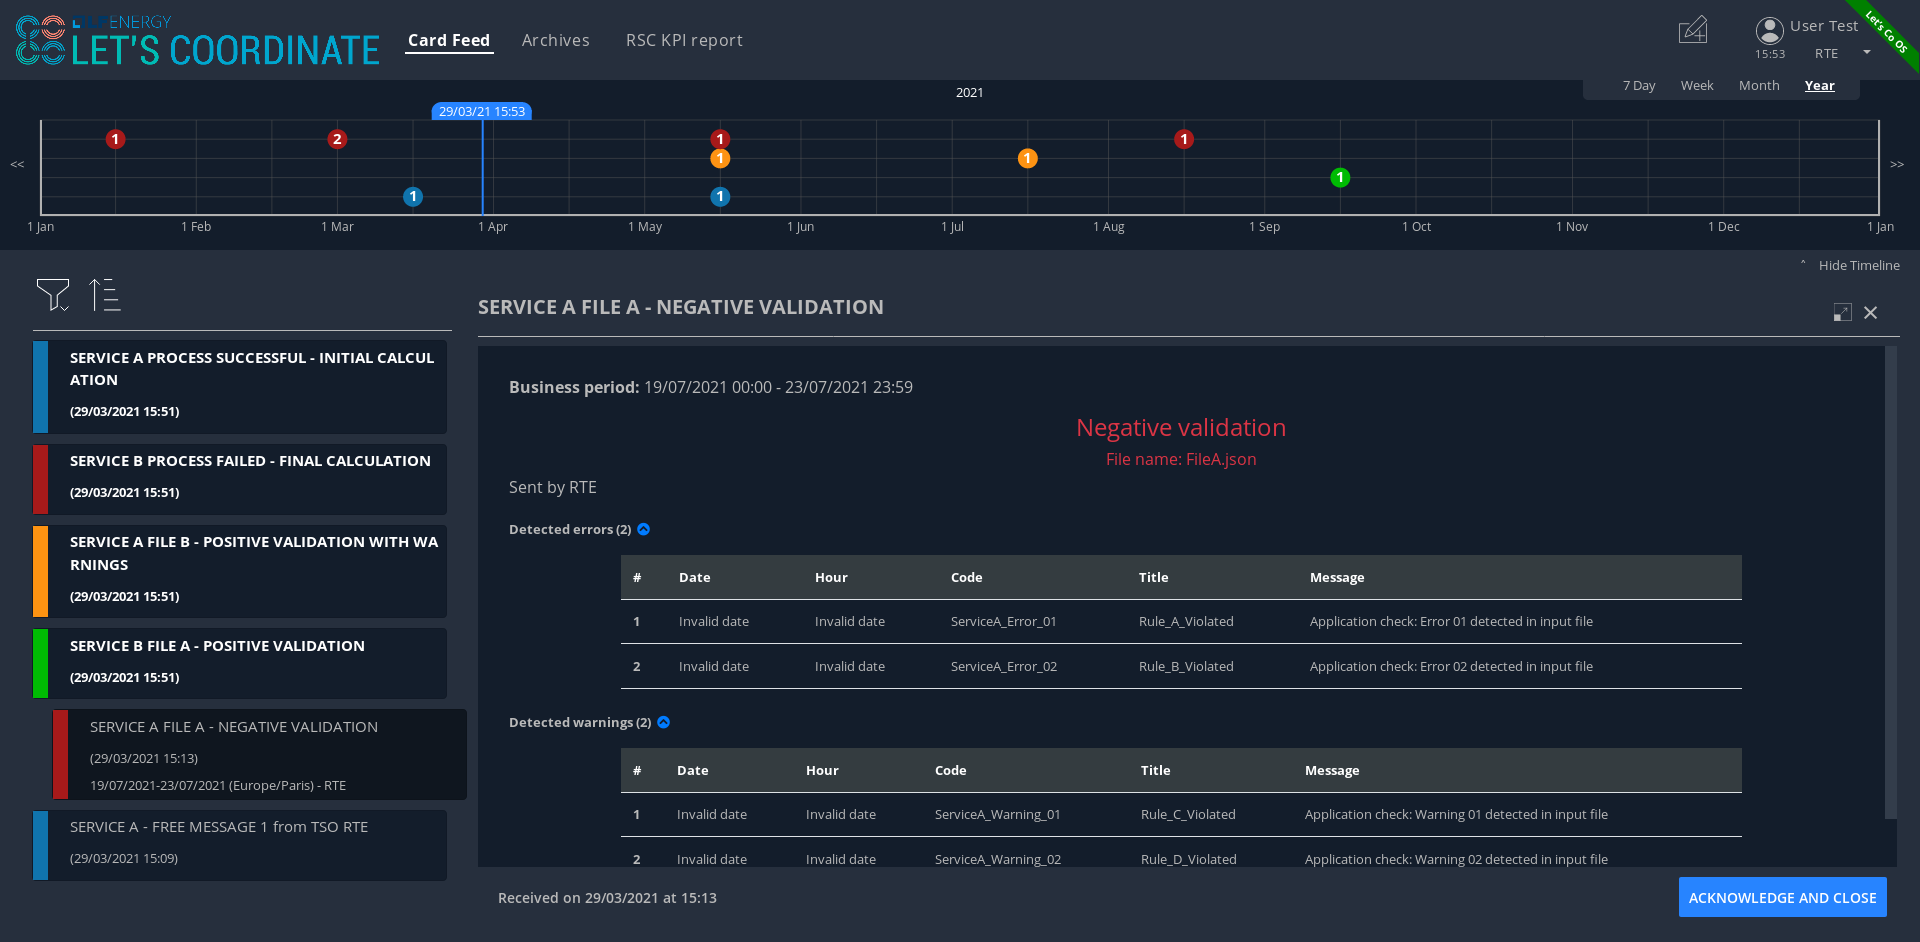
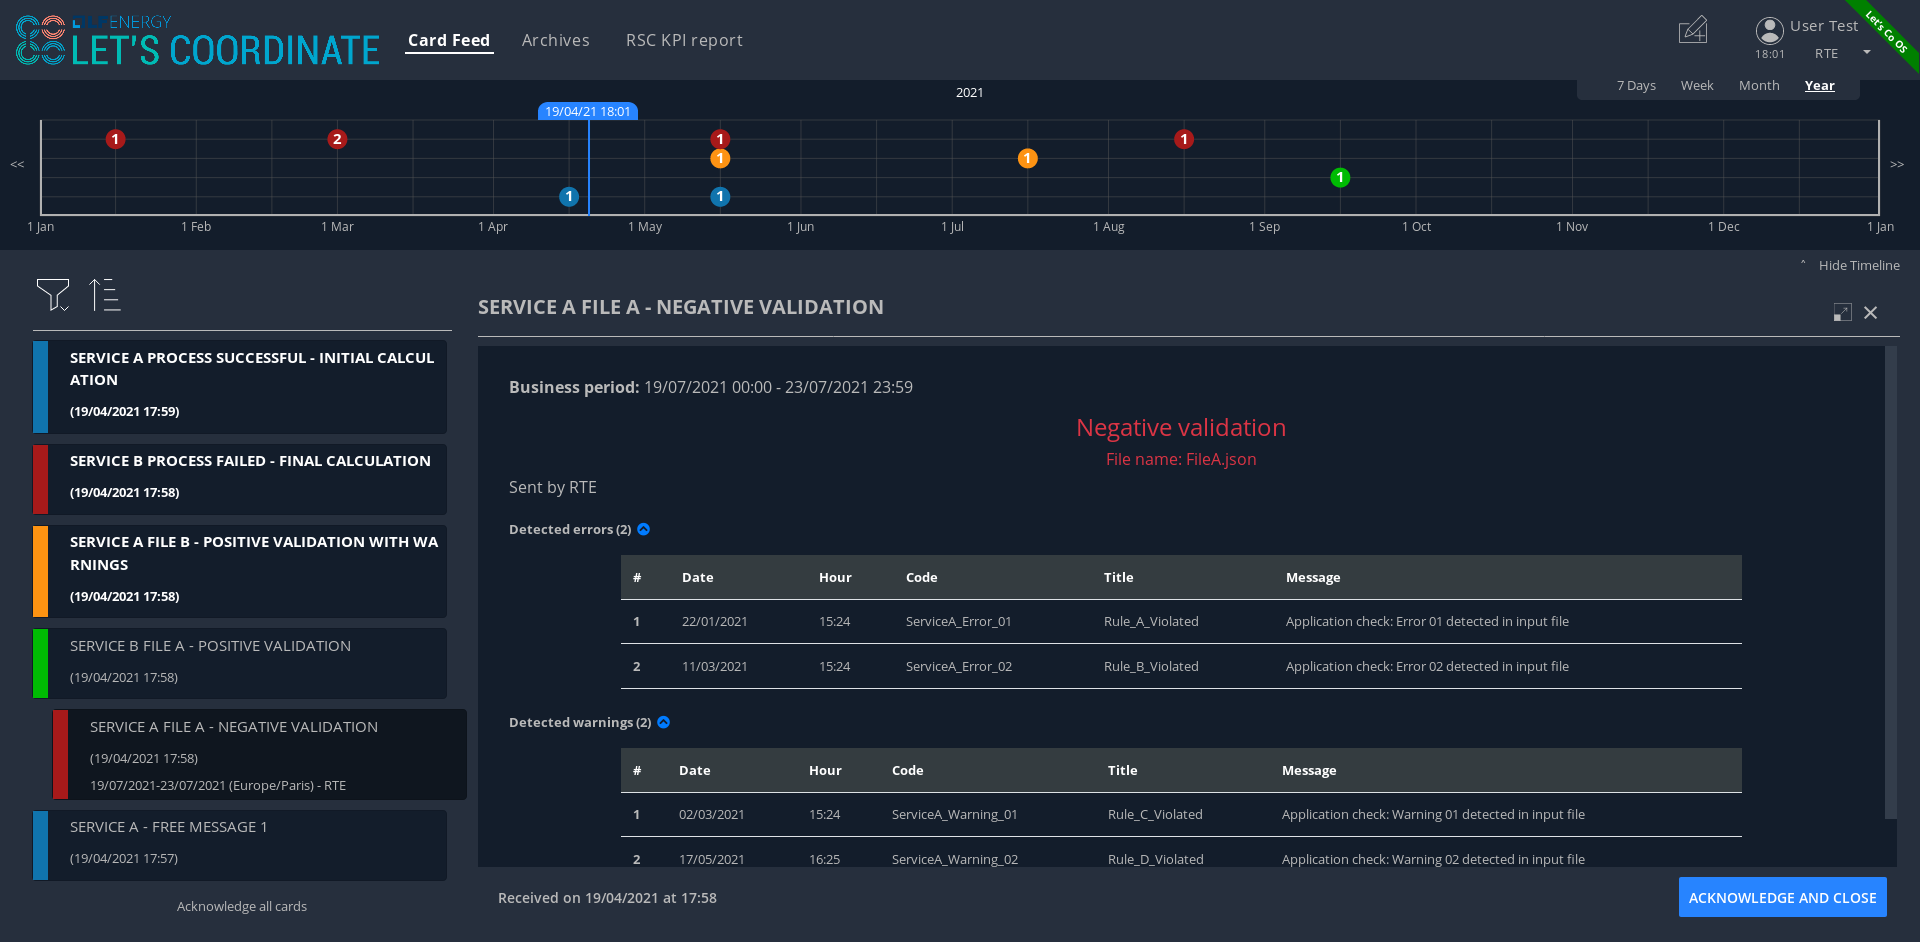
[LC-405] Add release note to LetsCo OS 1.2.0 documentation

diff --git a/_site/documentation/current/release_note/index.html b/_site/documentation/current/release_note/index.html
@@ -128,7 +128,7 @@
 <ul>
   <li>[LC-208] Display many bubbles in timeline for notifications that have errors and warnings</li>
   <li>[LC-242] Add yearly view and region concept to RSC KPI report</li>
-  <li>[LC-407] Upgrade the version of OperatorFabric to 2.3.0.RELEASE</li>
+  <li>[LC-408] Upgrade the version of OperatorFabric to 2.3.0.RELEASE</li>
   <li>[LC-258] Integrate the “Card creation” screen</li>
   <li>[LC-262] Integrate the “Notification Reception Configuration” screen</li>
   <li>[LC-189] Improve the getting started process and documentation</li>

diff --git a/_site/documentation/current/user_manual/index.html b/_site/documentation/current/user_manual/index.html
@@ -677,7 +677,7 @@ With the little triangle button on the right of username, user can click on it t
 </div>
 <div class="imageblock">
 <div class="content">
-<img src="../../asciidoc/images/validation_notification_positive_with_warnings.png" alt="Home Screen">
+<img src="../../asciidoc/images/validation_notification_negative.png" alt="Home Screen">
 </div>
 </div>
 <div class="ulist">

diff --git a/documentation/current/user_manual/index.html b/documentation/current/user_manual/index.html
@@ -677,7 +677,7 @@ With the little triangle button on the right of username, user can click on it t
 </div>
 <div class="imageblock">
 <div class="content">
-<img src="../../asciidoc/images/validation_notification_positive_with_warnings.png" alt="Home Screen">
+<img src="../../asciidoc/images/validation_notification_negative.png" alt="Home Screen">
 </div>
 </div>
 <div class="ulist">

diff --git a/_site/documentation/current/release_note/index.md b/_site/documentation/current/release_note/index.md
@@ -39,7 +39,7 @@
 
 * [LC-208] Display many bubbles in timeline for notifications that have errors and warnings
 * [LC-242] Add yearly view and region concept to RSC KPI report
-* [LC-407] Upgrade the version of OperatorFabric to 2.3.0.RELEASE
+* [LC-408] Upgrade the version of OperatorFabric to 2.3.0.RELEASE
 * [LC-258] Integrate the "Card creation" screen
 * [LC-262] Integrate the "Notification Reception Configuration" screen
 * [LC-189] Improve the getting started process and documentation

diff --git a/documentation/current/release_note/index.md b/documentation/current/release_note/index.md
@@ -39,7 +39,7 @@
 
 * [LC-208] Display many bubbles in timeline for notifications that have errors and warnings
 * [LC-242] Add yearly view and region concept to RSC KPI report
-* [LC-407] Upgrade the version of OperatorFabric to 2.3.0.RELEASE
+* [LC-408] Upgrade the version of OperatorFabric to 2.3.0.RELEASE
 * [LC-258] Integrate the "Card creation" screen
 * [LC-262] Integrate the "Notification Reception Configuration" screen
 * [LC-189] Improve the getting started process and documentation
